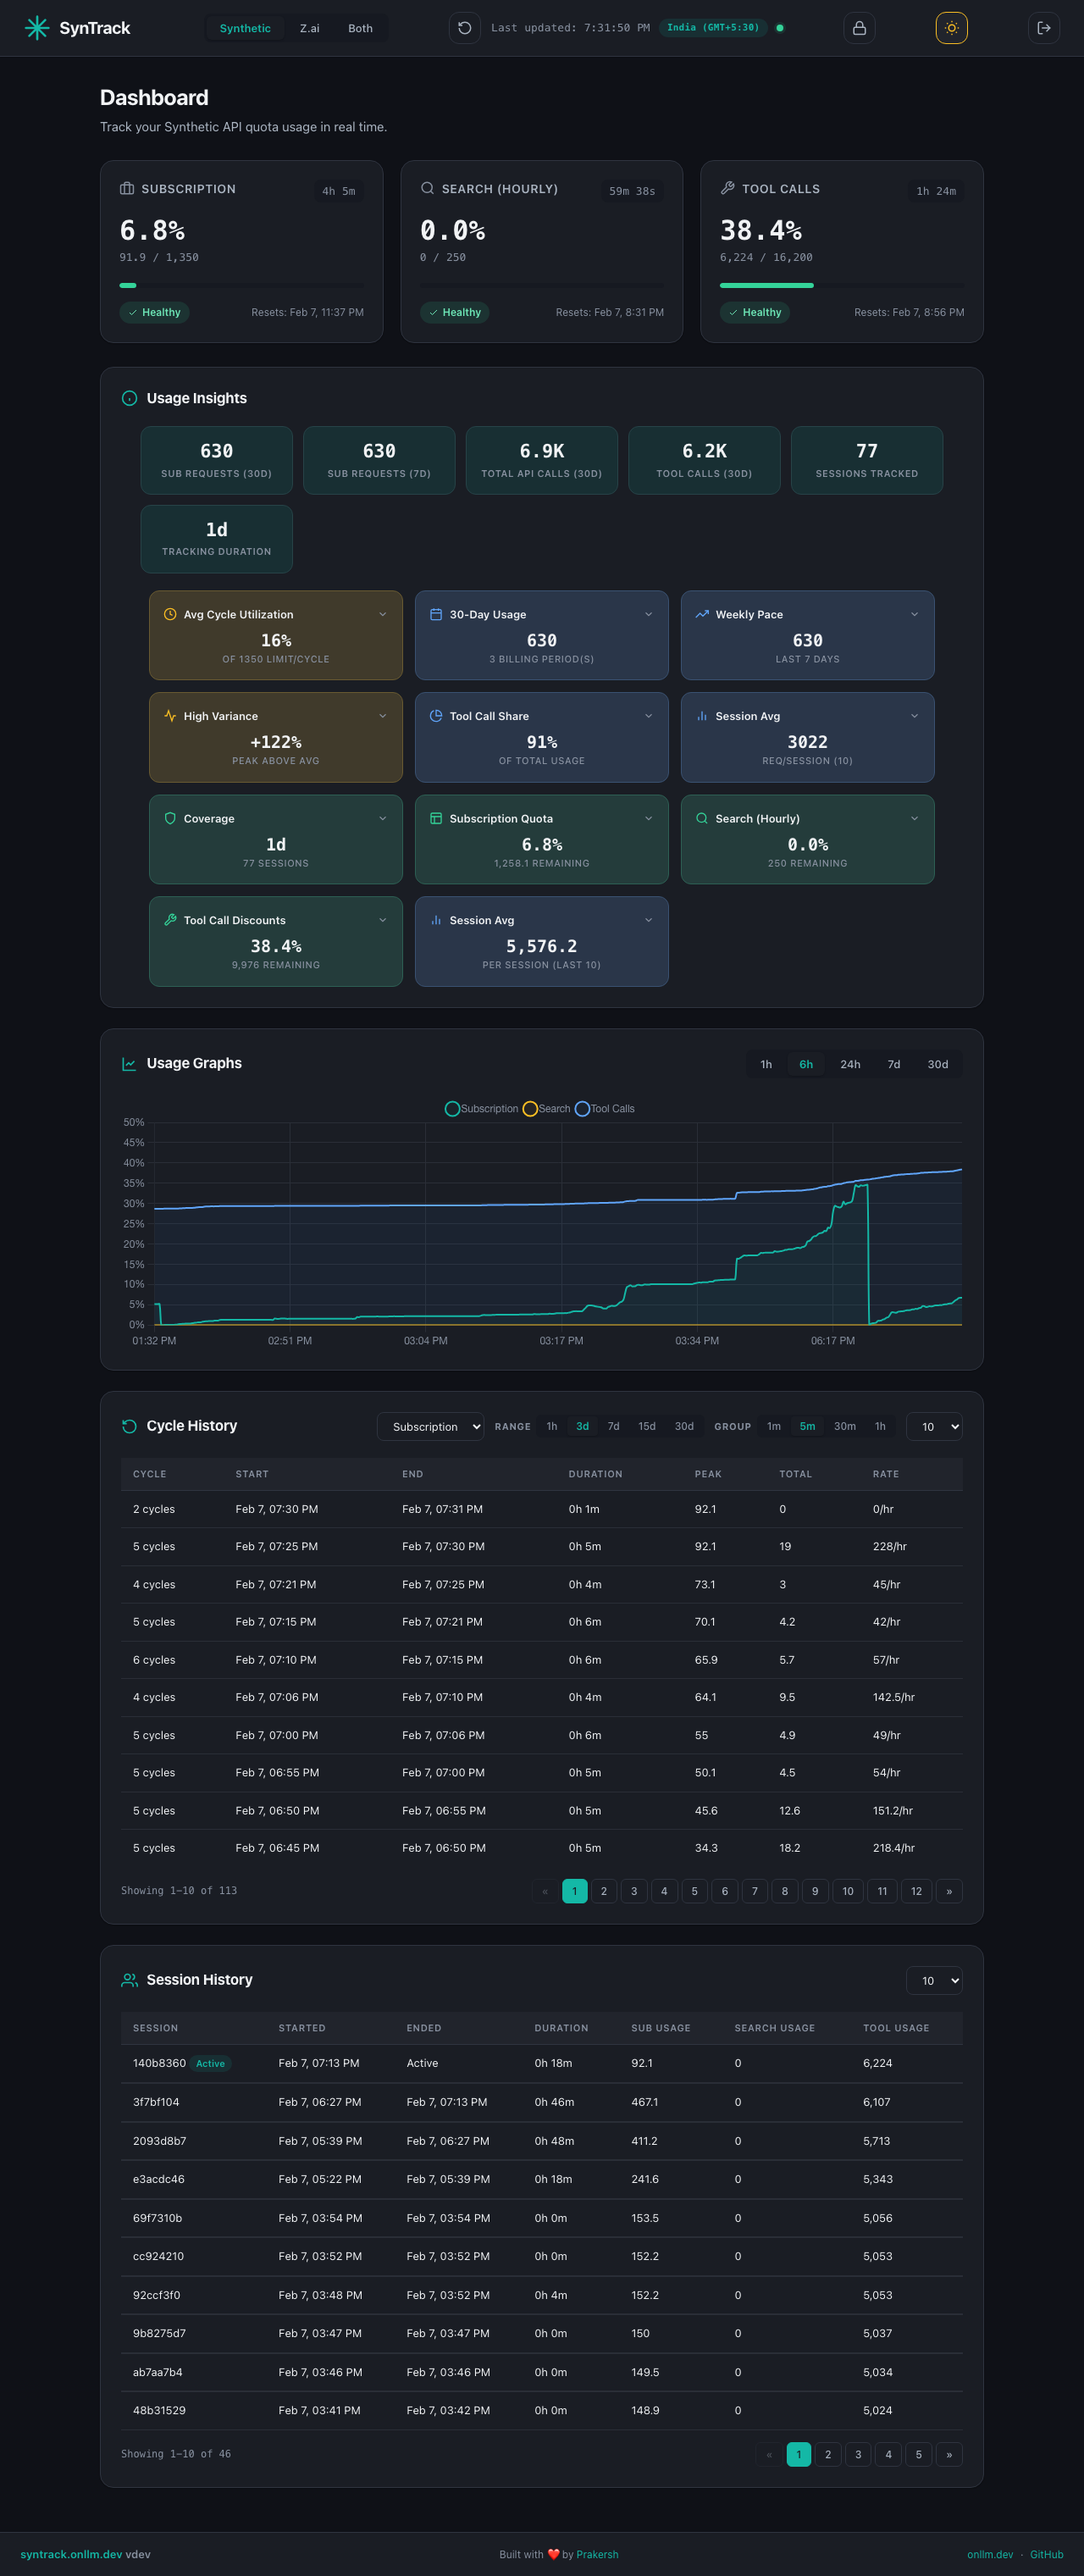
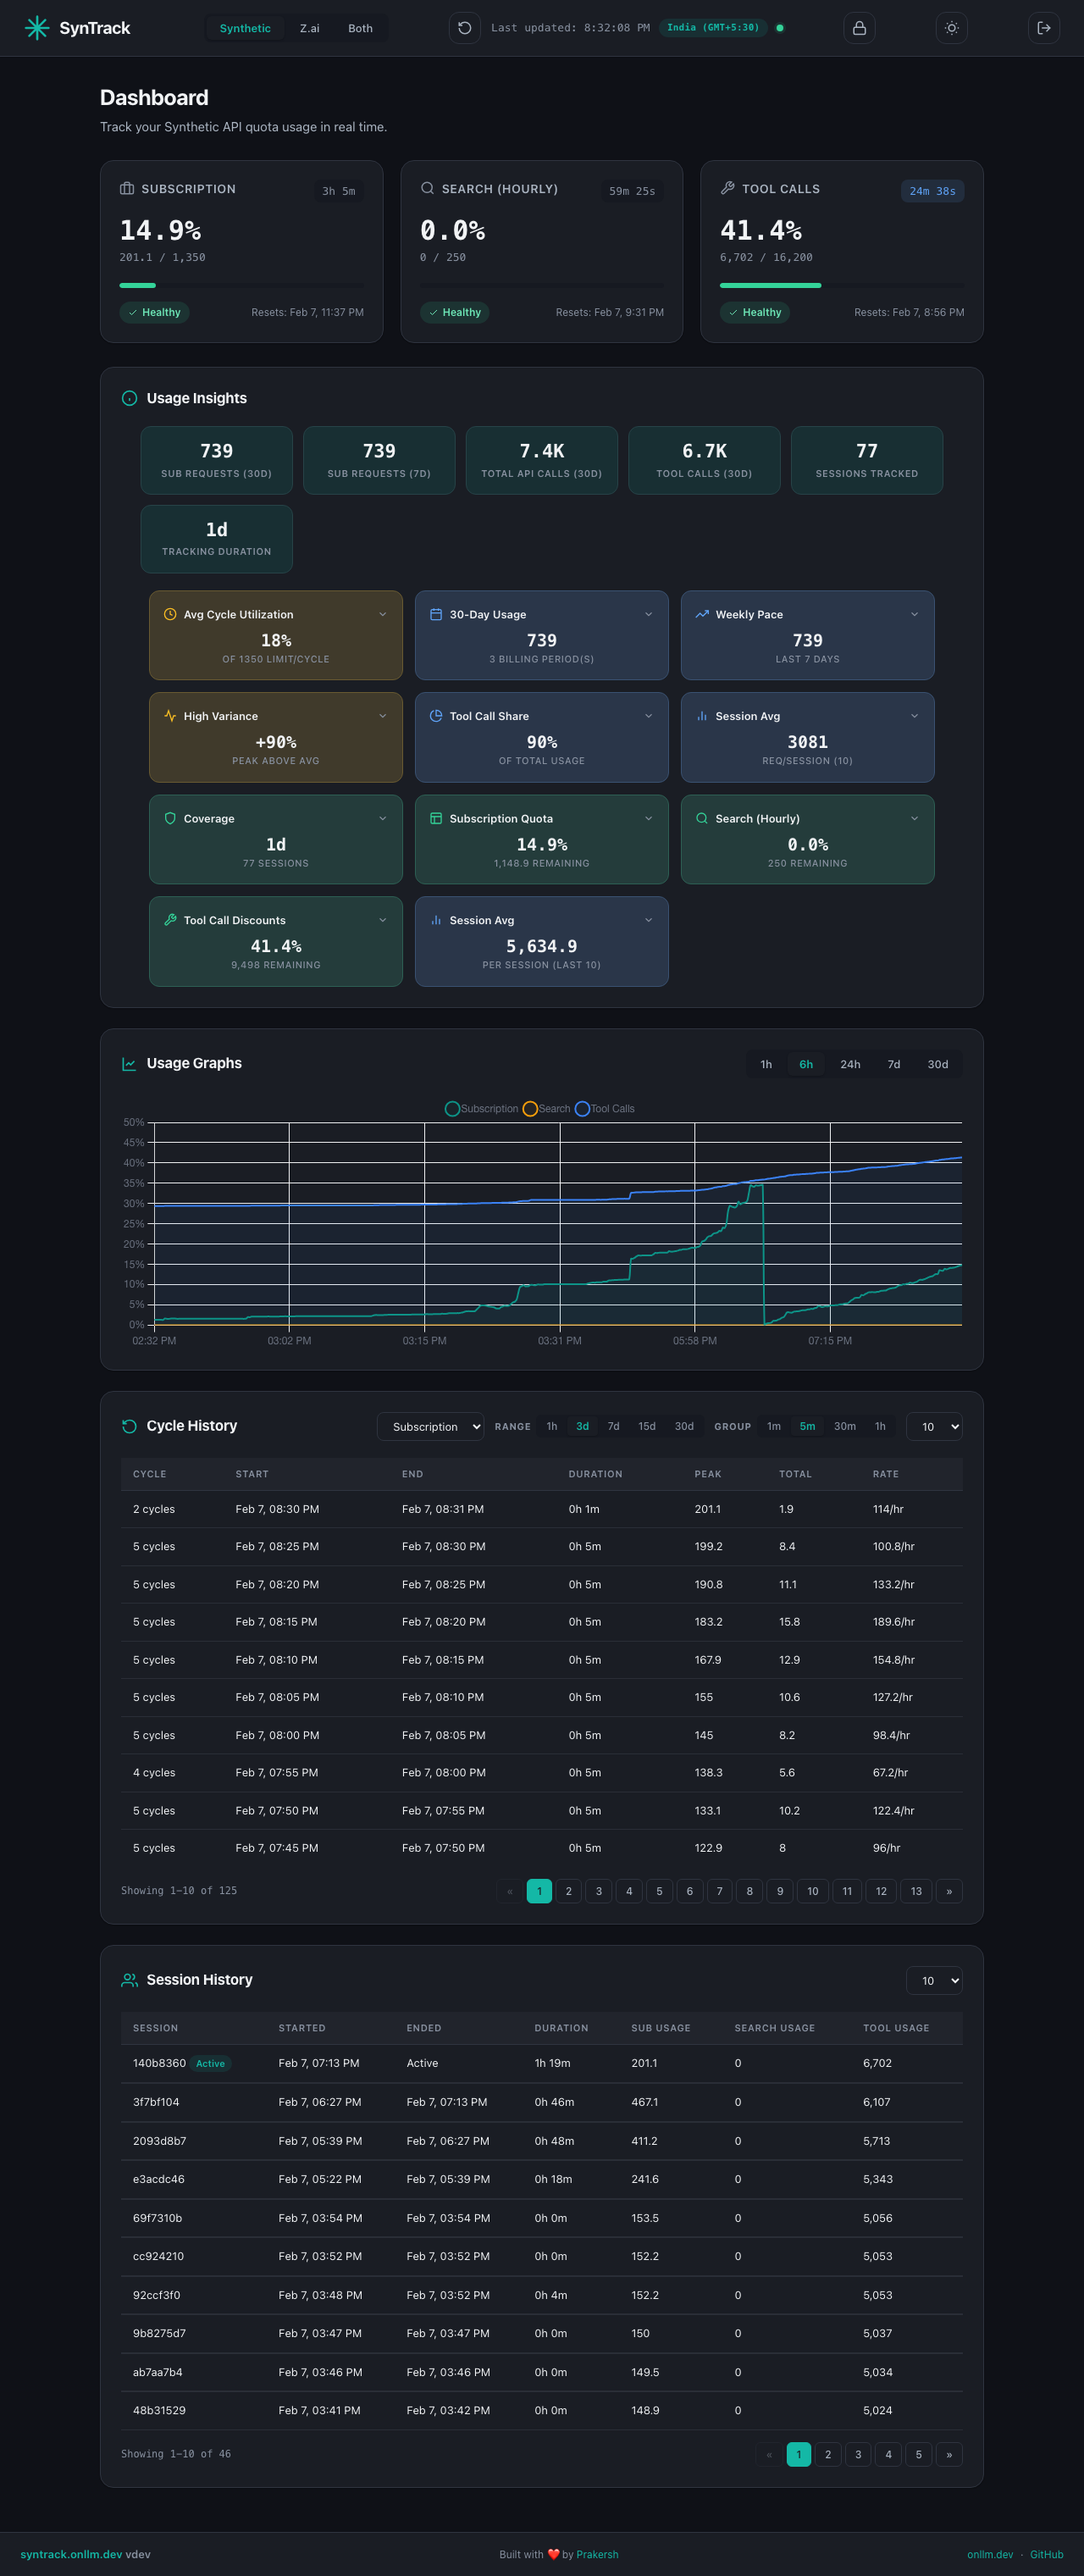
docs: update screenshots and enhance README badges
- Fresh dashboard screenshots from live instance
- Add syntrack.onllm.dev domain link prominently at top of README
- Upgrade badges to for-the-badge style with logos (GNU, Go, Apple)
- Add website badge linking to syntrack.onllm.dev

diff --git a/README.md b/README.md
@@ -1,14 +1,17 @@
 # SynTrack
 
+### **[syntrack.onllm.dev](https://syntrack.onllm.dev)**
+
 **SynTrack** is a free, open-source CLI tool that tracks [Synthetic](https://synthetic.new) and [Z.ai](https://z.ai) API quota usage in real time. It runs as a lightweight background agent (~25 MB RAM), polls quota endpoints at configurable intervals, stores historical data in SQLite, and serves a Material Design 3 web dashboard with dark/light mode.
 
 SynTrack fills the gap between "current usage snapshot" and the historical, per-cycle, cross-session intelligence that developers actually need. It works with any tool that uses Synthetic or Z.ai API keys, including **Cline**, **Roo Code**, **Kilo Code**, **Claude Code**, **Cursor**, **Windsurf**, and others.
 
 **Zero telemetry. Single binary. All data stays on your machine.**
 
-[![License: GPL-3.0](https://img.shields.io/badge/License-GPL--3.0-blue.svg)](LICENSE)
-[![Go](https://img.shields.io/badge/Go-1.25+-00ADD8.svg)](https://go.dev)
-[![Platform](https://img.shields.io/badge/Platform-macOS%20%7C%20Linux%20%7C%20Windows-lightgrey.svg)](#quick-start)
+[![License: GPL-3.0](https://img.shields.io/badge/License-GPL--3.0-brightgreen?style=for-the-badge&logo=gnu&logoColor=white)](LICENSE)
+[![Go 1.25+](https://img.shields.io/badge/Go-1.25+-00ADD8?style=for-the-badge&logo=go&logoColor=white)](https://go.dev)
+[![Platform](https://img.shields.io/badge/macOS%20%7C%20Linux%20%7C%20Windows-orange?style=for-the-badge&logo=apple&logoColor=white)](#quick-start)
+[![Website](https://img.shields.io/badge/syntrack.onllm.dev-7C3AED?style=for-the-badge&logo=globe&logoColor=white)](https://syntrack.onllm.dev)
 
 ![Dashboard Dark Mode](./screenshots/dashboard-dark.png)
 
